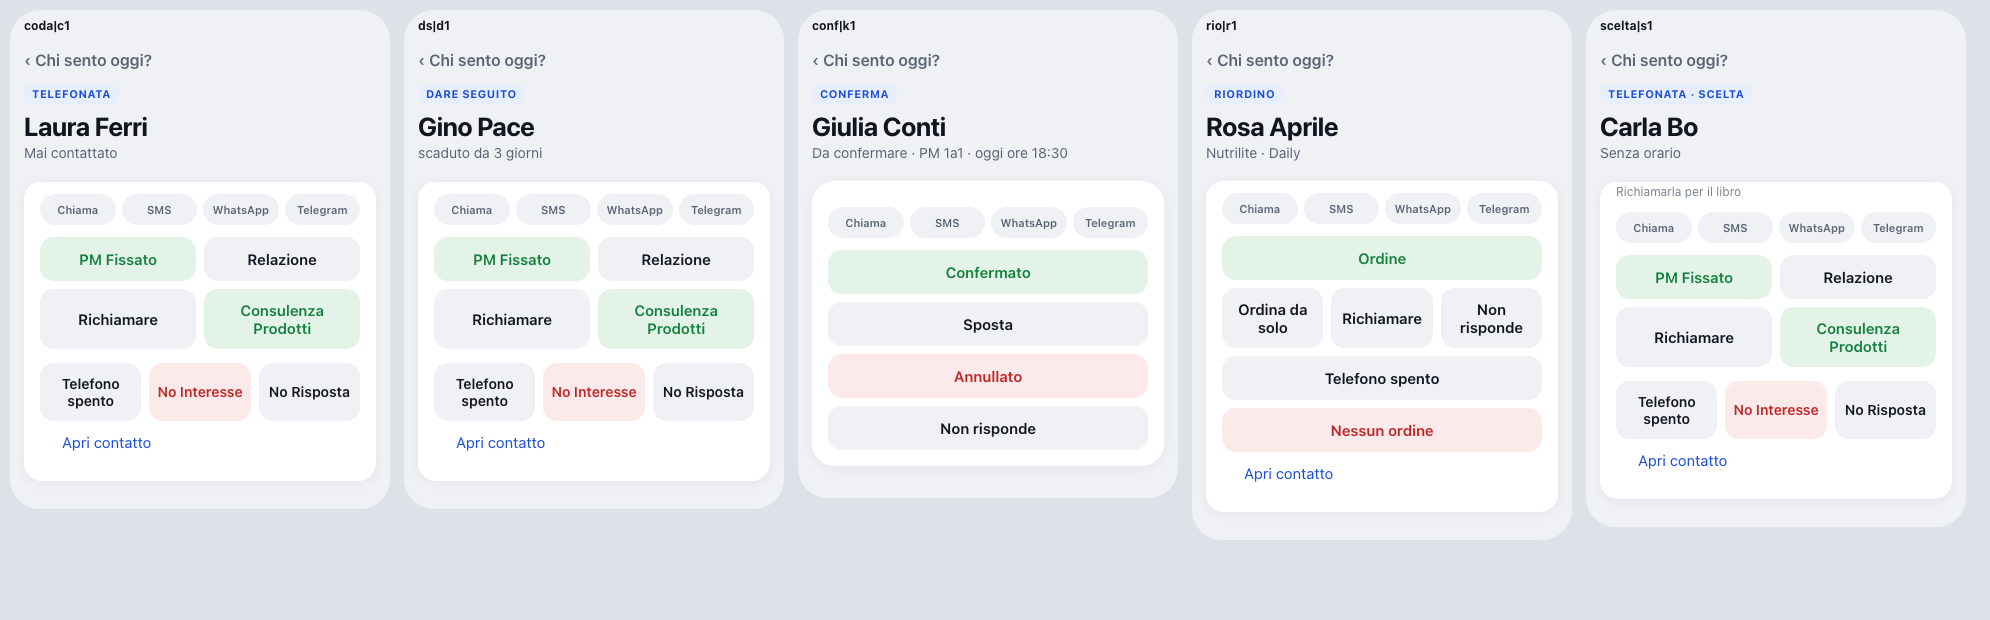
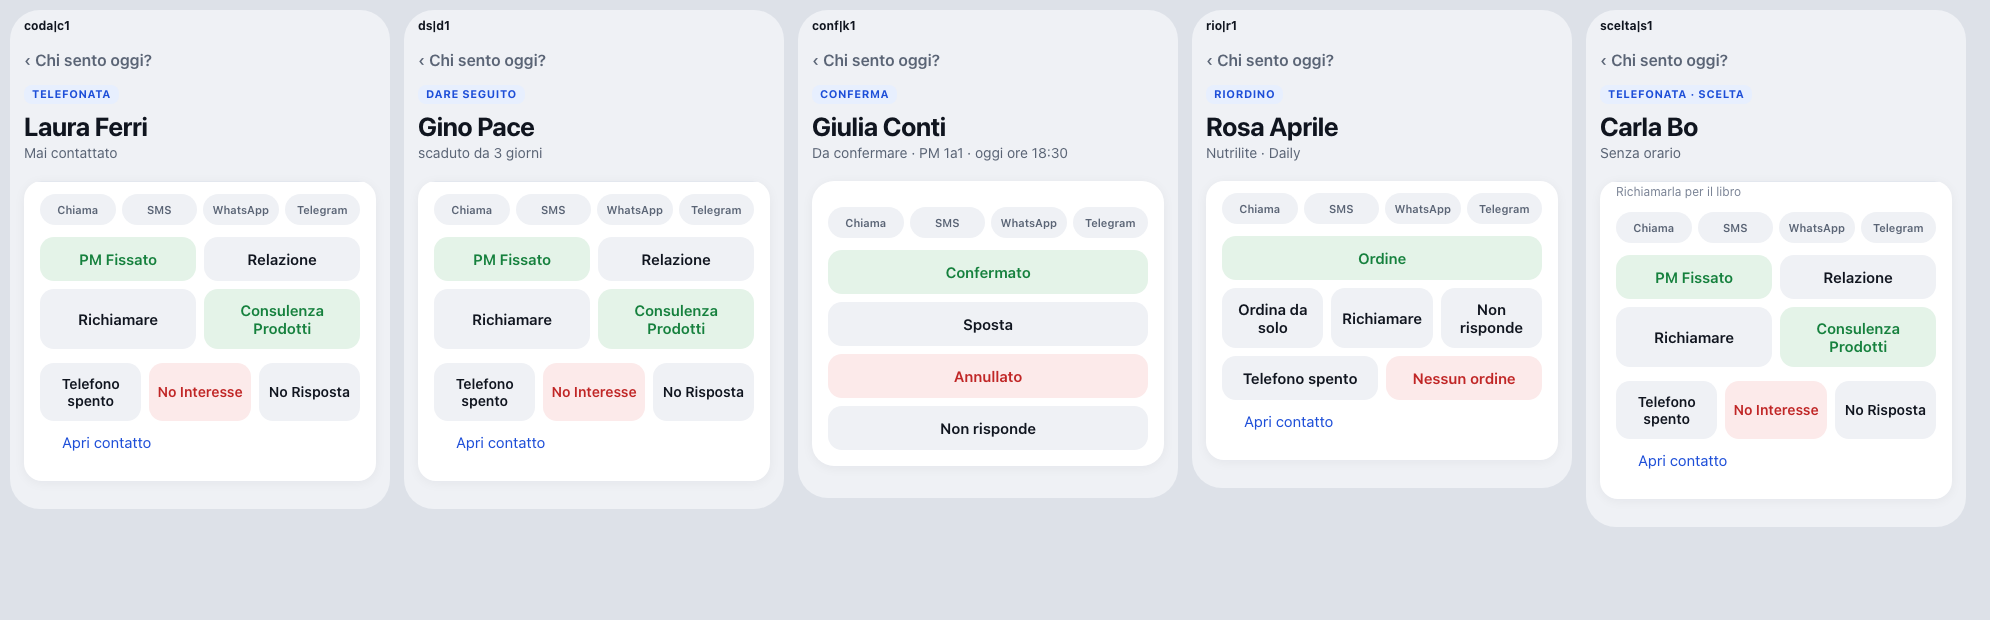
Verifica Dashboard, tappa 7b (Ignazio 22/10): nel riordino «Telefono spento» e «Nessun ordine» sulla stessa riga (.bottoni .coppia); nessun database; STRUTTURA.md; prova; disegno aggiornato

Changed region(s): [[0.592, 0.7355, 0.7789, 0.8274], [0.6231, 0.5823, 0.7477, 0.6435], [0.6231, 0.6742, 0.7166, 0.7048]]

diff --git a/tools/banco/prova_dashboard_livelli.js b/tools/banco/prova_dashboard_livelli.js
@@ -90,7 +90,9 @@ prova('La persona: la stessa scheda per tutti, col motivo in alto; il motivo cam
   assert.match(h, /<span class="lv-chip">Riordino<\/span>[\s\S]*?<div class="sotto">Nutrilite · Daily<\/div>/);
   assert.doesNotMatch(h, />Appuntamento<\/button>/);
   assert.ok(h.indexOf('Non risponde') < h.indexOf('Telefono spento') && h.indexOf('Telefono spento') < h.indexOf('Nessun ordine'));
-  assert.match(h, /data-riordino-esito="No Interesse"[^>]*>Nessun ordine<\/button>/);   // «Nessun ordine» salva «No Interesse»: il cliente torna, l'app chiede tra quanti giorni
+  assert.match(h, /data-riordino-esito="No Interesse"[^>]*>Nessun ordine<\/button>/);
+  assert.match(h, /<div class="coppia"><button data-riordino-spento="r1">Telefono spento<\/button><button class="no" data-riordino-esito="No Interesse"[^>]*>Nessun ordine<\/button><\/div>/);   // T7b: sulla stessa riga
+  assert.match(P.stile, /\.bottoni \.coppia \{ flex: 1 1 100%; display: flex; gap: 8px; \}/);   // «Nessun ordine» salva «No Interesse»: il cliente torna, l'app chiede tra quanti giorni
 });
 
 prova('Tappa 7: una scheda sola per ogni motivo — stessa testata (motivo, nome, riga di sotto), cambiano solo i tasti', () => {

diff --git a/pagina-dashboard.js b/pagina-dashboard.js
@@ -1542,8 +1542,7 @@ function riordiniHtml(solo) {
         <div class="bottoni">
           ${fasi.filter(f => !MB21Agenda.ESITI_NON_ANDATI.includes(f) && f !== 'Appuntamento').map(f => `<button class="${f === 'Ordine' ? 'appuntamento' : ''}" data-riordino-esito="${esc(f)}" ${spento}>${esc(f)}</button>`).join('')}
           <button data-riordino-nr="${esc(a.id)}">Non risponde</button>
-          <button data-riordino-spento="${esc(a.id)}">Telefono spento</button>
-          ${fasi.includes('No Interesse') ? `<button class="no" data-riordino-esito="No Interesse" ${spento}>Nessun ordine</button>` : ''}
+          <div class="coppia"><button data-riordino-spento="${esc(a.id)}">Telefono spento</button>${fasi.includes('No Interesse') ? `<button class="no" data-riordino-esito="No Interesse" ${spento}>Nessun ordine</button>` : ''}</div>
         </div>
         <button class="link" data-scheda="${esc(a.contatto_id)}">${ic('persona')} Apri contatto</button>
       </div></div>`;

diff --git a/index.html b/index.html
@@ -121,6 +121,7 @@
   .bottoni .no { flex: 1 1 100%; background: var(--pericolo-tinta); color: var(--pericolo); }
   /* Cantiere 39 (Ignazio 21/09: «ci stiamo evolvendo»): in coda gli stessi esiti di «Com'è andata?», sopra i buoni a due a due,
      sotto i non andati in fila. Supera la disposizione del 19/09 (buono intero in alto, negativo intero in fondo), che resta ai Riordini. */
+  .bottoni .coppia { flex: 1 1 100%; display: flex; gap: 8px; } .bottoni .coppia button { flex: 1 1 0; }   /* T7b (Ignazio 22/10): riordino, Telefono spento e Nessun ordine sulla stessa riga */
   .bottoni.due-righe { display: block; }
   .bottoni.due-righe > div { display: flex; flex-wrap: wrap; gap: 8px; }
   .bottoni.due-righe > div + div { margin-top: 14px; }

diff --git a/STRUTTURA.md b/STRUTTURA.md
@@ -460,6 +460,7 @@ Nel codice **niente è stato rinominato**: restano `apriCheck`, `check_giorno`, 
   - coda, Dare Seguito e scelta: gli esiti della telefonata.
 - Restano le funzioni di prima (`cardContatto`, `confermeHtml`, `riordiniHtml`, `sceltaHtml`) con i loro collegamenti. La loro testata interna (nome ripetuto, striscia colorata, freccia) la nasconde una regola sola in `index.html` (`.lv-scheda …`).
 - Nella telefonata scelta il giorno e l'ora non si ripetono: nella card resta solo la nota.
+- **T7b (Ignazio 22/10):** nel riordino «Telefono spento» e «Nessun ordine» stanno sulla stessa riga, uno accanto all'altro (`<div class="coppia">` in `riordiniHtml`, regola `.bottoni .coppia` in `index.html`).
 - Dopo l'esito si torna all'elenco con la spunta, come prima.
 - Prove in `prova_dashboard_livelli.js` (una per motivo); disegno con dati finti in `docs/prototipi/schizzo_scheda_persona_T7.png`.
 
